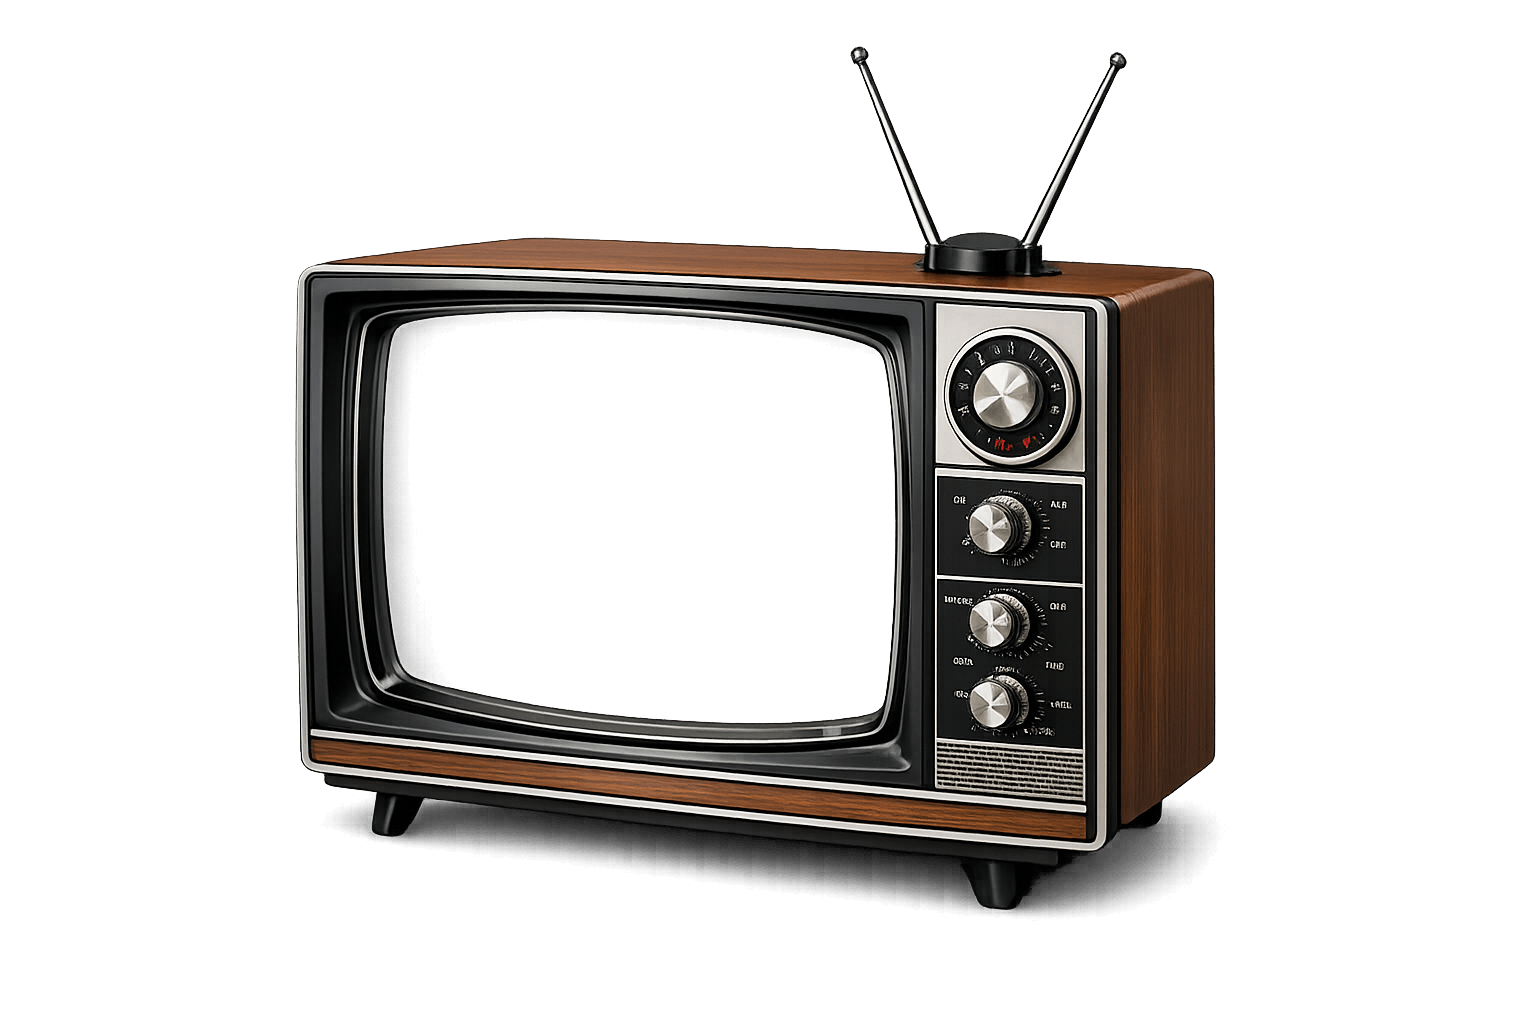
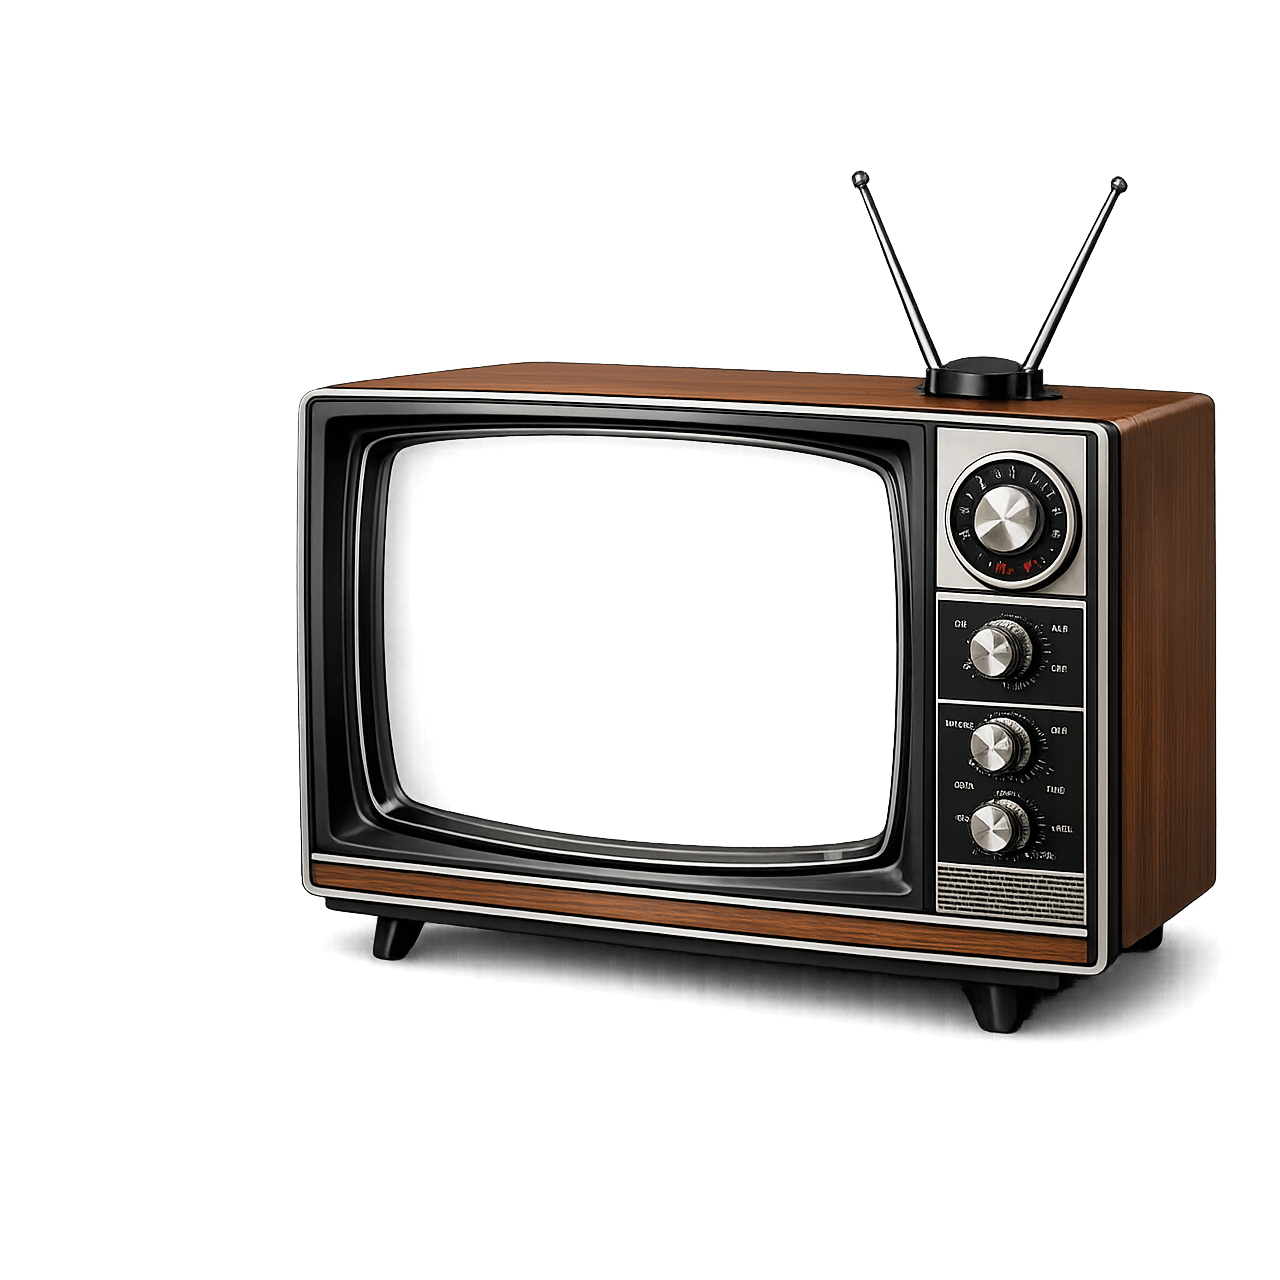
Turned the TV on.

diff --git a/nuxt/components/News.vue b/nuxt/components/News.vue
@@ -1,21 +1,264 @@
 <template>
-  <div id="news">
-    <div id="news-foreground">
-      <!-- <img src="/images/tv.png" alt="A TV from the ancient times displaying our latest news." /> -->
+  <div class="news-wrapper">
+    <svg width="0" height="0" xmlns="http://www.w3.org/2000/svg" style="position:absolute">
+      <clipPath id="tvClip" clipPathUnits="objectBoundingBox">
+        <path d="
+          M 0 0
+          L 1 0
+          L 1 1
+          C 0.72 0.96, 0.28 0.96, 0 1
+          Z
+        " />
+      </clipPath>
+    </svg>
+    <div class="news-screen">
+      <div class="news-content" :class="{ loaded: tvLoaded }">        
+        <div class="news-picture">
+          <a href="https://wearefleshandbones.com"><img src="/images/flesh-and-bones.webp" alt="We launched Flesh & Bones." /></a>
+        </div>
+        <div class="marquee fs-sm" aria-label="BREAKING NEWS">
+          <div class="marquee-track">
+            <span>BREAKING NEWS - WE LAUNCHED FLESH & BONES!</span>
+            <span aria-hidden="true">BREAKING NEWS - WE LAUNCHED FLESH & BONES!</span>
+          </div>
+        </div>
+      </div>
+    </div>
+    <div class="news-foreground">
+      <img
+        ref="tvImage"
+        src="/images/tv.png"
+        alt="A TV from the ancient times displaying our latest news."
+        @load="handleTvLoad"
+      />
     </div>
   </div>
 </template>
 
-<script setup>
-onMounted(() => {
-});
+<script>
+export default {
+  data() {
+    return {
+      tvLoaded: false,
+    };
+  },
+
+  mounted() {
+    this.handleTvLoad();
+  },
+
+  methods: {
+    handleTvLoad() {
+      if (this.tvLoaded) {
+        return;
+      }
+
+      const tvImage = this.$refs.tvImage;
+
+      if (tvImage && tvImage.complete) {
+        this.tvLoaded = true;
+      }
+    },
+  },
+};
 </script>
 
 <style lang="scss">
-#news {
-  aspect-ratio: 16/9;
+@keyframes flicker {
+  0% {
+    opacity: 0.27861;
+  }
+  5% {
+    opacity: 0.34769;
+  }
+  10% {
+    opacity: 0.23604;
+  }
+  15% {
+    opacity: 0.90626;
+  }
+  20% {
+    opacity: 0.18128;
+  }
+  25% {
+    opacity: 0.83891;
+  }
+  30% {
+    opacity: 0.55583;
+  }
+  35% {
+    opacity: 0.2881;
+  }
+  40% {
+    opacity: 0.67807;
+  }
+  45% {
+    opacity: 0.23604;
+  }
+  50% {
+    opacity: 0.42336;
+  }
+  55% {
+    opacity: 0.57495;
+  }
+  60% {
+    opacity: 0.14157;
+  }
+  65% {
+    opacity: 0.90434;
+  }
+  70% {
+    opacity: 0.17802;
+  }
+  75% {
+    opacity: 0.62892;
+  }
+  80% {
+    opacity: 0.22953;
+  }
+  85% {
+    opacity: 0.79255;
+  }
+  90% {
+    opacity: 0.35412;
+  }
+  95% {
+    opacity: 0.45087;
+  }
+  100% {
+    opacity: 0.25;
+  }
+}
 
-  #news-foreground {
+@keyframes marquee {
+  from {
+    transform: translateX(0);
+  }
+
+  to {
+    transform: translateX(-50%);
+  }
+}
+
+.news-wrapper {
+  position: relative;
+  aspect-ratio: 1/1;
+  width: 50%;
+  margin-left: -10%;
+
+  .news-screen {
+    position: absolute;
+    top: 50%;
+    left: 50%;
+    width: 42%;
+    aspect-ratio: 11/9;
+    overflow: hidden;
+    background: #121010;
+    perspective: 2000px;
+    transform-style: preserve-3d;
+    transform: translate(-50%, -50%);
+
+    &:after {
+      content: "";
+      position: absolute;
+      top: 0px;
+      left: 0px;
+      width: 100%;
+      height: 50%;
+      background: linear-gradient(210deg,rgba(255, 255, 255, 0.18) 0%, rgba(0, 0, 0, 0) 100%);
+      transform: rotate(3deg);
+      clip-path: url("#tvClip");
+      pointer-events: none;
+    }
+
+    .news-content {
+      position: relative;
+      width: 100%;
+      height: 100%;
+      background-color: $black;
+      transform: rotateX(-3deg) rotateY(-9deg) rotateZ(3.5deg) scale(1, 0);
+      transition: transform 333ms $ease-out;
+
+      .slide-0-active &.loaded {
+        transform: rotateX(-3deg) rotateY(-9deg) rotateZ(3.5deg) scale(1, 1);
+        transition: transform 333ms $ease-out 333ms;
+      }
+
+      &:before {
+        content: " ";
+        display: block;
+        position: absolute;
+        top: 0; left: 0; bottom: 0; right: 0;
+        background: linear-gradient(rgba(18, 16, 16, 0) 50%, rgba(0, 0, 0, 0.25) 50%), 
+                    linear-gradient(90deg, rgba(255, 0, 0, 0.06), rgba(0, 255, 0, 0.02), rgba(0, 0, 255, 0.06));
+        z-index: 2;
+        background-size: 100% 2px, 3px 100%;
+        pointer-events: none;
+      }
+
+      &:after {
+        content: " ";
+        display: block;
+        position: absolute;
+        top: 0; left: 0; bottom: 0; right: 0;
+        background: rgba(18, 16, 16, 0.1);
+        opacity: 0;
+        z-index: 2;
+        pointer-events: none;
+        animation: flicker 0.15s infinite;
+      }
+
+      .news-picture {
+        width: 100%;
+        height: 100%;
+        opacity: 0.65;
+        
+        a {
+          display: block;
+          width: 100%;
+          height: 100%;
+
+          img {
+            width: 100%;
+            height: 100%;
+            object-fit: cover;
+          }
+        }
+      }
+
+      .marquee {
+        position: absolute;
+        bottom: 20%;
+        left: 0px;
+        width: 100%;
+        line-height: 1.5em;
+        color: $white;
+        background-color: rgba($black, 0.65);
+        overflow: hidden;
+
+        .marquee-track {
+          display: flex;
+          width: max-content;
+          white-space: nowrap;
+          animation: marquee 16s linear infinite;
+
+          span {
+            flex: 0 0 auto;
+            padding-right: 2rem;
+            text-shadow:
+              -1px 0 0 rgba(255, 0, 72, 0.85),
+              1px 0 0 rgba(0, 170, 255, 0.85),
+              0 0 6px rgba(255, 255, 255, 0.08);
+          }
+        }
+      }
+    }
+  }
+
+  .news-foreground {
+    position: relative;
+    pointer-events: none;
+
     img {
       width: 100%;
       height: 100%;